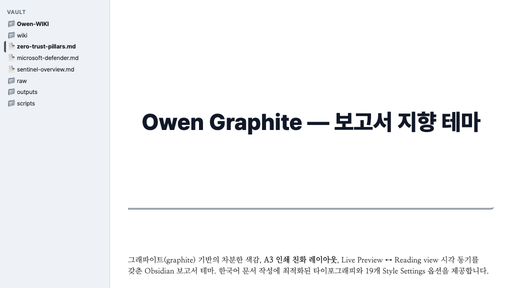
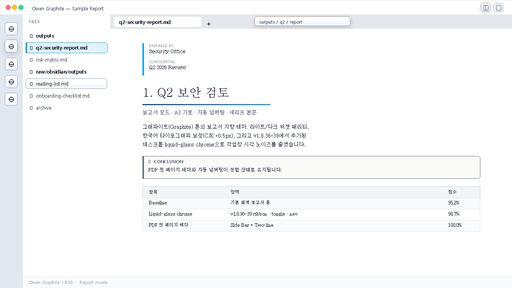
Refresh marketplace screenshots for v1.8.39 base
Regenerate light/dark/report PNGs with a v1.8.39-aware mock-up: liquid-glass ribbon icons, sidebar toggle hover lift, breadcrumb glass, editing toolbar with hovered button, active file accent bar, conclusion callout, comparison table. Add scripts/generate_screenshots.py (pure Pillow, Malgun Gothic for Korean, Batang for serif report mode); 1280x720 source downscaled to 512x288 with LANCZOS. Update screenshots/README.md to describe new content and the regen workflow.

diff --git a/scripts/generate_screenshots.py b/scripts/generate_screenshots.py
@@ -1,0 +1,330 @@
+"""
+Owen Graphite v1.8.39 marketing screenshot generator (pure Pillow).
+
+Renders three 1280x720 PNG mock-ups (light / dark / report) showcasing
+v1.8.39 liquid-glass desktop chrome (ribbon icons, sidebar toggle hover,
+nav file hover lift, tab list, breadcrumb, callout, table). Then
+downscales to 512x288 for the marketplace listing.
+
+Pure Pillow, no SVG. Uses Windows-installed Malgun Gothic for Korean
+and Batang for serif (report mode).
+"""
+from __future__ import annotations
+
+import sys
+from pathlib import Path
+
+from PIL import Image, ImageDraw, ImageFilter, ImageFont
+
+OUT_DIR = Path(__file__).resolve().parent.parent / "screenshots"
+OUT_DIR.mkdir(parents=True, exist_ok=True)
+
+W, H = 1280, 720
+THUMB = (512, 288)
+
+FONTS_DIR = Path(r"C:\Windows\Fonts")
+
+
+def font(name: str, size: int) -> ImageFont.FreeTypeFont:
+    return ImageFont.truetype(str(FONTS_DIR / name), size)
+
+
+def fonts(size: int, weight: str = "regular", serif: bool = False) -> ImageFont.FreeTypeFont:
+    if serif:
+        for f in ["batang.ttc", "NanumMyeongjo.ttf"]:
+            if (FONTS_DIR / f).exists():
+                return font(f, size)
+        return font("malgun.ttf", size)
+    if weight == "bold":
+        return font("malgunbd.ttf", size)
+    return font("malgun.ttf", size)
+
+
+PALETTES = {
+    "light": {
+        "bg": (248, 250, 252),
+        "panel": (255, 255, 255),
+        "panel_alt": (241, 245, 249),
+        "ribbon_bg": (226, 232, 240),
+        "border": (226, 232, 240),
+        "border_strong": (203, 213, 225),
+        "text": (15, 23, 42),
+        "text_muted": (71, 85, 105),
+        "text_dim": (148, 163, 184),
+        "accent": (14, 165, 233),
+        "accent_dark": (7, 89, 133),
+        "accent_soft": (224, 242, 254),
+        "h1": (15, 23, 42),
+        "callout_bg": (236, 254, 255),
+        "callout_border": (6, 182, 212),
+        "table_head": (241, 245, 249),
+        "table_zebra": (248, 250, 252),
+        "tab_active": (255, 255, 255),
+        "tab_idle": (226, 232, 240),
+        "glass_top": (255, 255, 255),
+        "glass_bot": (241, 245, 249),
+        "glass_border": (148, 163, 184),
+        "shadow_alpha": 36,
+    },
+    "dark": {
+        "bg": (15, 23, 42),
+        "panel": (30, 41, 59),
+        "panel_alt": (15, 23, 42),
+        "ribbon_bg": (11, 18, 32),
+        "border": (30, 41, 59),
+        "border_strong": (51, 65, 85),
+        "text": (248, 250, 252),
+        "text_muted": (203, 213, 225),
+        "text_dim": (100, 116, 139),
+        "accent": (56, 189, 248),
+        "accent_dark": (186, 230, 253),
+        "accent_soft": (12, 74, 110),
+        "h1": (248, 250, 252),
+        "callout_bg": (12, 74, 110),
+        "callout_border": (34, 211, 238),
+        "table_head": (30, 41, 59),
+        "table_zebra": (23, 32, 51),
+        "tab_active": (30, 41, 59),
+        "tab_idle": (11, 18, 32),
+        "glass_top": (51, 65, 85),
+        "glass_bot": (15, 23, 42),
+        "glass_border": (203, 213, 225),
+        "shadow_alpha": 110,
+    },
+    "report": {
+        "bg": (255, 255, 255),
+        "panel": (255, 255, 255),
+        "panel_alt": (248, 250, 252),
+        "ribbon_bg": (226, 232, 240),
+        "border": (229, 231, 235),
+        "border_strong": (203, 213, 225),
+        "text": (17, 24, 39),
+        "text_muted": (55, 65, 81),
+        "text_dim": (156, 163, 175),
+        "accent": (14, 165, 233),
+        "accent_dark": (7, 89, 133),
+        "accent_soft": (224, 242, 254),
+        "h1": (17, 24, 39),
+        "callout_bg": (250, 250, 249),
+        "callout_border": (107, 114, 128),
+        "table_head": (243, 244, 246),
+        "table_zebra": (249, 250, 251),
+        "tab_active": (255, 255, 255),
+        "tab_idle": (229, 231, 235),
+        "glass_top": (255, 255, 255),
+        "glass_bot": (241, 245, 249),
+        "glass_border": (148, 163, 184),
+        "shadow_alpha": 42,
+    },
+}
+
+
+def lerp(a, b, t):
+    return tuple(int(a[i] + (b[i] - a[i]) * t) for i in range(3))
+
+
+def vgradient(img, x, y, w, h, top, bot):
+    band = Image.new("RGB", (1, h))
+    for j in range(h):
+        band.putpixel((0, j), lerp(top, bot, j / max(1, h - 1)))
+    band = band.resize((w, h), Image.BILINEAR)
+    img.paste(band, (x, y))
+
+
+def rounded_glass(img, x, y, w, h, p, hovered=False, radius=6):
+    if hovered:
+        sh = Image.new("RGBA", (w + 24, h + 24), (0, 0, 0, 0))
+        ImageDraw.Draw(sh).rounded_rectangle(
+            (12, 14, 12 + w, 14 + h), radius=radius + 1,
+            fill=(20, 25, 40, p["shadow_alpha"]))
+        sh = sh.filter(ImageFilter.GaussianBlur(6))
+        img.paste(sh, (x - 12, y - 12), sh)
+        y -= 1
+
+    glass = Image.new("RGB", (w, h), p["glass_bot"])
+    vgradient(glass, 0, 0, w, h, p["glass_top"], p["glass_bot"])
+    mask = Image.new("L", (w, h), 0)
+    ImageDraw.Draw(mask).rounded_rectangle((0, 0, w - 1, h - 1), radius=radius, fill=255)
+    img.paste(glass, (x, y), mask)
+
+    od = ImageDraw.Draw(img)
+    od.rounded_rectangle((x, y, x + w - 1, y + h - 1), radius=radius,
+                         outline=p["glass_border"], width=1)
+    hl = Image.new("L", (w, h), 0)
+    ImageDraw.Draw(hl).rounded_rectangle((1, 1, w - 2, h // 2), radius=radius - 1, fill=110)
+    overlay = Image.new("RGB", (w, h), p["glass_top"])
+    img.paste(overlay, (x, y), hl)
+
+
+def text(d, x, y, s, sz, color, weight="regular", serif=False):
+    d.text((x, y), s, font=fonts(sz, weight=weight, serif=serif), fill=color)
+
+
+def render_variant(variant):
+    p = PALETTES[variant]
+    is_report = variant == "report"
+    serif = is_report
+
+    img = Image.new("RGB", (W, H), p["bg"])
+    d = ImageDraw.Draw(img)
+
+    # Title bar
+    d.rectangle((0, 0, W, 36), fill=p["panel"], outline=p["border"])
+    for i, c in enumerate([(251, 113, 133), (251, 191, 36), (52, 211, 153)]):
+        d.ellipse((14 + i * 16, 12, 26 + i * 16, 24), fill=c)
+    text(d, 80, 12, "Owen Graphite — Sample Report", 12, p["text_muted"])
+
+    rounded_glass(img, W - 78, 8, 24, 22, p, hovered=True)
+    od = ImageDraw.Draw(img)
+    od.rounded_rectangle((W - 72, 13, W - 60, 25), radius=2, outline=p["text_muted"], width=1)
+    od.line((W - 67, 13, W - 67, 25), fill=p["text_muted"], width=1)
+
+    rounded_glass(img, W - 46, 8, 24, 22, p, hovered=False)
+    od = ImageDraw.Draw(img)
+    od.rounded_rectangle((W - 40, 13, W - 28, 25), radius=2, outline=p["text_muted"], width=1)
+
+    ribbon_w = 56
+    od = ImageDraw.Draw(img)
+    od.rectangle((0, 36, ribbon_w, H), fill=p["ribbon_bg"], outline=p["border"])
+    for i, hovered in enumerate([False, True, False, False, False]):
+        iy = 56 + i * 44
+        rounded_glass(img, 12, iy, 32, 32, p, hovered=hovered)
+        od2 = ImageDraw.Draw(img)
+        cx, cy = 28, iy + 16
+        od2.ellipse((cx - 6, cy - 6, cx + 6, cy + 6), outline=p["text_muted"], width=2)
+        od2.line((cx - 4, cy, cx + 4, cy), fill=p["text_muted"], width=2)
+
+    fx, fw = ribbon_w, 220
+    od = ImageDraw.Draw(img)
+    od.rectangle((fx, 36, fx + fw, H), fill=p["panel"], outline=p["border"])
+    text(d, fx + 16, 46, "FILES", 11, p["text_dim"], weight="bold")
+    files = [
+        ("📁  outputs", True, False, False),
+        ("📄  q2-security-report.md", False, True, False),
+        ("📄  risk-matrix.md", False, False, False),
+        ("📁  raw/obsidian/outputs", True, False, False),
+        ("📄  reading-list.md", False, False, True),
+        ("📄  onboarding-checklist.md", False, False, False),
+        ("📁  archive", False, False, False),
+    ]
+    for i, (name, bold, active, hover) in enumerate(files):
+        ty = 80 + i * 30
+        if active:
+            od.rounded_rectangle((fx + 8, ty - 4, fx + fw - 8, ty + 22), radius=6,
+                                 fill=p["accent_soft"], outline=p["accent"], width=1)
+            od.rectangle((fx + 8, ty - 4, fx + 11, ty + 22), fill=p["accent"])
+        elif hover:
+            rounded_glass(img, fx + 8, ty - 4, fw - 16, 26, p, hovered=False, radius=6)
+        weight = "bold" if (bold or active) else "regular"
+        color = p["text"] if (bold or active or hover) else p["text_muted"]
+        text(d, fx + 18, ty, name, 12, color, weight=weight)
+
+    tx = fx + fw
+    tab_h = 36
+    od = ImageDraw.Draw(img)
+    od.rectangle((tx, 36, W, 36 + tab_h), fill=p["tab_idle"], outline=p["border"])
+    od.rounded_rectangle((tx + 8, 40, tx + 228, 36 + tab_h - 4), radius=6,
+                         fill=p["tab_active"], outline=p["border_strong"], width=1)
+    text(d, tx + 22, 46, "q2-security-report.md", 12, p["text"], weight="bold")
+    text(d, tx + 240, 46, "+", 16, p["text_muted"], weight="bold")
+    rounded_glass(img, tx + 360, 42, 240, 24, p, hovered=True)
+    text(d, tx + 372, 47, "outputs / q2 / report", 11, p["text_muted"])
+
+    ex, ey = tx, 36 + tab_h
+    ew = W - ex
+    od = ImageDraw.Draw(img)
+    od.rectangle((ex, ey, W, H), fill=p["panel"])
+
+    if not is_report:
+        bar_x, bar_y = ex + 88, ey + 12
+        bar_w, bar_h = ew - 104, 32
+        rounded_glass(img, bar_x, bar_y, bar_w, bar_h, p, hovered=False, radius=8)
+        labels = ["B", "I", "U", "H", "<>", "❝"]
+        for i, hovered in enumerate([False, False, True, False, False, False]):
+            bx = bar_x + 12 + i * 36
+            rounded_glass(img, bx, bar_y + 4, 24, 24, p, hovered=hovered)
+            text(d, bx + 7, bar_y + 8, labels[i], 11, p["text_muted"], weight="bold")
+        body_top = ey + 76
+    else:
+        od.rectangle((ex + 80, ey + 36, ex + 83, ey + 116), fill=p["accent"])
+        text(d, ex + 96, ey + 36, "PREPARED BY", 9, p["text_dim"], weight="bold")
+        text(d, ex + 96, ey + 50, "Security Office", 12, p["text"], weight="bold", serif=serif)
+        text(d, ex + 96, ey + 76, "CONFIDENTIAL", 9, p["text_dim"], weight="bold")
+        text(d, ex + 96, ey + 90, "Q2 2026 Review", 12, p["text"], weight="bold", serif=serif)
+        body_top = ey + 144
+
+    h1_text = "1. Q2 보안 검토" if is_report else "Owen Graphite"
+    h1_x = ex + 80
+    text(d, h1_x, body_top, h1_text, 30, p["h1"], weight="bold", serif=serif)
+    rule_y = body_top + 44
+    rule_w = 320
+    for i in range(rule_w):
+        c = lerp(p["accent_dark"], p["accent"], i / rule_w)
+        d.line((h1_x + i, rule_y, h1_x + i, rule_y + 2), fill=c)
+
+    sub = ("보고서 모드 · A3 가로 · 자동 넘버링 · 세리프 본문" if is_report
+           else "Liquid-glass desktop chrome · Style Settings 26 · Live Preview parity")
+    text(d, h1_x, rule_y + 14, sub, 13, p["text_muted"], serif=serif)
+
+    body_y = rule_y + 50
+    body_lines = [
+        "그래파이트(Graphite) 톤의 보고서 지향 테마. 라이트/다크 위젯 패리티,",
+        "한국어 타이포그래피 보정(CJK +0.5px), 그리고 v1.8.36–39에서 추가된",
+        "데스크톱 liquid-glass chrome으로 작업창 시각 노이즈를 줄였습니다.",
+    ]
+    for i, line in enumerate(body_lines):
+        text(d, h1_x, body_y + i * 22, line, 13, p["text"], serif=serif)
+
+    cy = body_y + 80
+    cw = ew - 160
+    od.rounded_rectangle((h1_x, cy, h1_x + cw, cy + 56), radius=6,
+                         fill=p["callout_bg"], outline=p["callout_border"], width=1)
+    od.rectangle((h1_x, cy, h1_x + 3, cy + 56), fill=p["callout_border"])
+    text(d, h1_x + 14, cy + 6, "💡  CONCLUSION", 11, p["callout_border"], weight="bold")
+    text(d, h1_x + 14, cy + 28, "PDF 첫 페이지 헤더와 자동 넘버링이 정합 상태로 유지됩니다.",
+         12, p["text"], serif=serif)
+
+    ty = cy + 76
+    th_h = 28
+    row_h = 28
+    od.rectangle((h1_x, ty, h1_x + cw, ty + th_h), fill=p["table_head"],
+                 outline=p["border_strong"])
+    headers = ["항목", "정책", "점수"]
+    col_x = [h1_x + 16, h1_x + 220, h1_x + cw - 80]
+    for cx, hdr in zip(col_x, headers):
+        text(d, cx, ty + 6, hdr, 11, p["text_muted"], weight="bold")
+    rows = [
+        ("Baseline", "기본 회색 보고서 톤", "95.2%"),
+        ("Liquid-glass chrome", "v1.8.36–39 ribbon · toggle · nav", "98.7%"),
+        ("PDF 첫 페이지 헤더", "Side Bar + Two-line", "100.0%"),
+    ]
+    for i, row in enumerate(rows):
+        ry = ty + th_h + i * row_h
+        bg = p["table_zebra"] if i % 2 == 0 else p["panel"]
+        od.rectangle((h1_x, ry, h1_x + cw, ry + row_h), fill=bg, outline=p["border"])
+        for cx, val in zip(col_x, row):
+            text(d, cx, ry + 6, val, 11, p["text"], serif=serif)
+
+    od.rectangle((ribbon_w, H - 28, W, H), fill=p["panel_alt"], outline=p["border"])
+    text(d, ribbon_w + 16, H - 22, f"Owen Graphite 1.8.39  ·  {variant.title()} mode",
+         11, p["text_dim"])
+
+    big_path = OUT_DIR / f"_big-{variant}.png"
+    img.save(big_path, "PNG", optimize=True)
+    final = OUT_DIR / f"{variant}.png"
+    with Image.open(big_path) as im:
+        im = im.convert("RGB").resize(THUMB, Image.LANCZOS)
+        im.save(final, "PNG", optimize=True)
+    big_path.unlink(missing_ok=True)
+    return final
+
+
+def main():
+    for v in ["light", "dark", "report"]:
+        out = render_variant(v)
+        print(f"[OK] {v} -> {out}  ({out.stat().st_size // 1024} KB)")
+    return 0
+
+
+if __name__ == "__main__":
+    sys.exit(main())

diff --git a/screenshots/README.md b/screenshots/README.md
@@ -4,15 +4,26 @@ Owen Graphite 테마의 마켓플레이스 등록용 스크린샷.
 
 | 파일 | 크기 | 모드 | 내용 |
 |------|------|------|------|
-| `light.png` | 512×288 (16:9) | Light | 헤더 + 표 + callout + 코드 발췌 |
-| `dark.png`  | 512×288 (16:9) | Dark | 동일 노트 다크 모드 |
-| `report.png`| 512×288 (16:9) | Report | 보고서 모드 (표지 + 자동 넘버링 + Side Bar 헤더) |
+| `light.png` | 512×288 (16:9) | Light | v1.8.39 기준: Liquid-glass ribbon·toggle hover·nav active·breadcrumb·editing toolbar·callout·table |
+| `dark.png`  | 512×288 (16:9) | Dark | 동일 레이아웃 다크 모드, slate gradient + cyan accent |
+| `report.png`| 512×288 (16:9) | Report | 보고서 모드 (자동 넘버링 + Side Bar 헤더 + serif 본문) |
 | `snippet-design-8-improvements-preview.png` | 3096×3586 | Concept | Gray override snippet 8개 구조 개선 preview |
 | `table-sample.png` | — | Concept | 보고서형 테이블 클래스 디자인 샘플 |
 
 > 모든 스크린샷은 익명 샘플 콘텐츠로 제작되어 개인·고객사 식별 정보가 포함되지 않습니다.
 
 ## 재생성 방법
+
+v1.8.39 기준 mock-up 이미지는 Pillow로 직접 렌더링합니다. 한글은 Windows 기본 설치 Malgun Gothic 사용.
+
+```bash
+python -m pip install pillow
+python scripts/generate_screenshots.py
+```
+
+스크립트는 1280×720 원본을 렌더링하고 LANCZOS로 512×288에 다운스케일합니다.
+
+### 이전 SVG 기반 렌더러 (deprecated)
 
 원본 SVG는 별도 작업 폴더에 보관되어 있으며, `cairosvg`로 PNG 변환합니다.
 
